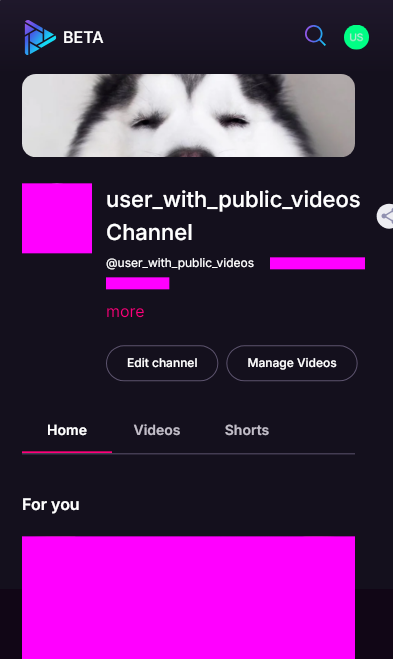
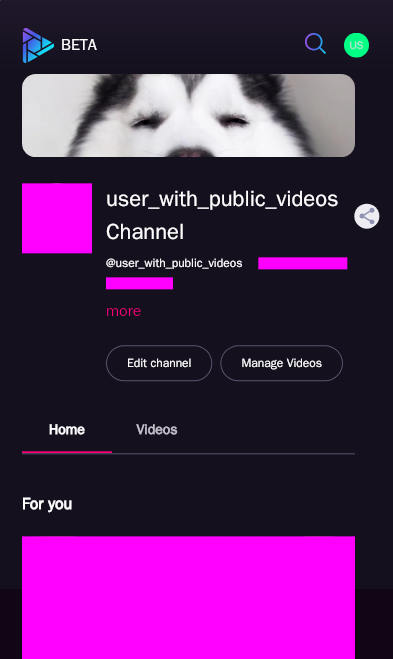
test

diff --git a/tests/visualSuite/desktop/studioVisualSuites.spec.ts b/tests/visualSuite/desktop/studioVisualSuites.spec.ts
@@ -25,32 +25,42 @@ test.describe('Studio SideBar visual tests', () => {
     });
 
     test('Studio SideBar menu for logged in user', async ({ page }) => {
-        await loginOnMainDomain(page);
-
-        await page.goto('/dashboard', { waitUntil: 'domcontentloaded' });
-        await expect(page.locator('.sidebarNav')).toBeVisible();
-        await page.evaluate(async () => {
-            await document.fonts.ready;
+        await test.step('Login on main domain', async () => {
+            await loginOnMainDomain(page);
         });
-        await expect(page.locator('.sidebarNav')).toHaveScreenshot({ maxDiffPixelRatio: 0.02 });
+
+        await test.step('Navigate to studio dashboard and verify sidebar screenshot', async () => {
+            await page.goto('/dashboard');
+            await page.waitForLoadState('networkidle');
+            await expect(page.locator('.sidebarNav')).toBeVisible();
+            await page.evaluate(async () => {
+                await document.fonts.ready;
+            });
+            await expect(page.locator('.sidebarNav')).toHaveScreenshot({ maxDiffPixelRatio: 0.02 });
+        });
     });
 });
 
 test.describe('Studio Header visual tests', () => {
 
     test('Studio Header panel for logged in user', async ({ page }) => {
-        await loginOnMainDomain(page);
-
-        await page.goto('/dashboard', { waitUntil: 'domcontentloaded' });
-        await expect(page.locator('[data-id="header"]')).toBeVisible();
-        await page.evaluate(async () => {
-            await document.fonts.ready;
+        await test.step('Login on main domain', async () => {
+            await loginOnMainDomain(page);
         });
-        await expect(page.locator('[data-id="header"]')).toHaveScreenshot({
-            mask: [
-                page.locator('#profile-button').first()
-            ],
-            maxDiffPixelRatio: 0.02
+
+        await test.step('Navigate to studio dashboard and verify header screenshot', async () => {
+            await page.goto('/dashboard');
+            await page.waitForLoadState('networkidle');
+            await expect(page.locator('[data-id="header"]')).toBeVisible();
+            await page.evaluate(async () => {
+                await document.fonts.ready;
+            });
+            await expect(page.locator('[data-id="header"]')).toHaveScreenshot({
+                mask: [
+                    page.locator('#profile-button')
+                ],
+                maxDiffPixelRatio: 0.02
+            });
         });
     });
 });

diff --git a/src/pages/components/SideBarPage.ts b/src/pages/components/SideBarPage.ts
@@ -1,4 +1,5 @@
 import { Page, Locator, expect } from "@playwright/test";
+import { ensureOnStudioDomain } from "../../utils/studioNavigation";
 
 export class SideBarPage {
   readonly page: Page;
@@ -121,58 +122,50 @@ export class SideBarPage {
   // STUDIO ACTIONS
   // =========================
 
-  /** Navigate to studio domain if not already there */
-  private async ensureOnStudioDomain() {
-    const studioUrl = process.env.STUDIO_URL || 'https://studio.web3tv.dev';
-    if (!this.page.url().includes(new URL(studioUrl).hostname)) {
-      await this.page.goto(`${studioUrl}/dashboard`, { waitUntil: 'domcontentloaded' });
-    }
-  }
-
   async clickStudioDashboard() {
-    await this.ensureOnStudioDomain();
+    await ensureOnStudioDomain(this.page);
     await expect(this.studioDashboard).toBeVisible();
     await this.studioDashboard.click();
     await expect(this.page).toHaveURL(/\/dashboard$/);
   }
 
   async clickStudioContent() {
-    await this.ensureOnStudioDomain();
+    await ensureOnStudioDomain(this.page);
     await expect(this.studioContent).toBeVisible();
     await this.studioContent.click();
     await expect(this.page).toHaveURL(/\/content$/);
   }
 
   async clickStudioAnalytics() {
-    await this.ensureOnStudioDomain();
+    await ensureOnStudioDomain(this.page);
     await expect(this.studioAnalytics).toBeVisible();
     await this.studioAnalytics.click();
     await expect(this.page).toHaveURL(/\/stats$/);
   }
 
   async clickStudioSubscriptions() {
-    await this.ensureOnStudioDomain();
+    await ensureOnStudioDomain(this.page);
     await expect(this.studioSubscriptions).toBeVisible();
     await this.studioSubscriptions.click();
     await expect(this.page).toHaveURL(/\/membership$/);
   }
 
   async clickStudioPlaylists() {
-    await this.ensureOnStudioDomain();
+    await ensureOnStudioDomain(this.page);
     await expect(this.studioPlaylists).toBeVisible();
     await this.studioPlaylists.click();
     await expect(this.page).toHaveURL(/\/playlists$/);
   }
 
   async clickStudioEditChannel() {
-    await this.ensureOnStudioDomain();
+    await ensureOnStudioDomain(this.page);
     await expect(this.studioEditChannel).toBeVisible();
     await this.studioEditChannel.click();
     await expect(this.page).toHaveURL(/\/channel$/);
   }
 
   async clickStudioSettings() {
-    await this.ensureOnStudioDomain();
+    await ensureOnStudioDomain(this.page);
     await expect(this.studioSettings).toBeVisible();
     await this.studioSettings.click();
     await expect(this.page).toHaveURL(/\/settings$/);

diff --git a/src/flows/UploadVideoFlow.ts b/src/flows/UploadVideoFlow.ts
@@ -4,6 +4,7 @@ import { UploadVideoPage } from "../pages/components/UploadVideoPage";
 import { SideBarPage } from "../pages/components/SideBarPage";
 import { Page } from '@playwright/test';
 import { StudioContentPage } from "../pages/studio/StudioContentPage";
+import { ensureOnStudioDomain } from "../utils/studioNavigation";
 
 export class UploadVideoFlow {
     private timestamp: string = '';
@@ -17,16 +18,8 @@ export class UploadVideoFlow {
         this.headerPage = new HeaderPage(page);
     }
 
-    /** Navigate to studio domain if not already there */
-    private async ensureOnStudioDomain() {
-        const studioUrl = process.env.STUDIO_URL || 'https://studio.web3tv.dev';
-        if (!this.page.url().includes(new URL(studioUrl).hostname)) {
-            await this.page.goto(`${studioUrl}/studio`, { waitUntil: 'domcontentloaded' });
-        }
-    }
-
     async uploadVideo(pathToFileURL:string,videoName:string){
-        await this.ensureOnStudioDomain();
+        await ensureOnStudioDomain(this.page);
         await this.headerPage.clickAddVideoBtn();
         await this.headerPage.clickNewVideoBtn();
         await expect(this.headerPage.page.getByRole('dialog', { name: 'Upload Video' })).toBeVisible();
@@ -45,7 +38,7 @@ export class UploadVideoFlow {
 
  
     async uploadShort(pathToFileURL:string,videoName:string){
-        await this.ensureOnStudioDomain();
+        await ensureOnStudioDomain(this.page);
         await this.headerPage.clickAddVideoBtn();
         await this.headerPage.clickNewShortBtn();
         await expect(this.headerPage.page.getByRole('dialog', { name: 'Upload Short' })).toBeVisible();

diff --git a/src/utils/studioNavigation.ts b/src/utils/studioNavigation.ts
@@ -1,0 +1,9 @@
+import { Page } from '@playwright/test';
+
+/** Navigate to studio domain if not already there */
+export async function ensureOnStudioDomain(page: Page): Promise<void> {
+    const studioUrl = process.env.STUDIO_URL || 'https://studio.web3tv.dev';
+    if (!page.url().includes(new URL(studioUrl).hostname)) {
+        await page.goto(`${studioUrl}/dashboard`, { waitUntil: 'domcontentloaded' });
+    }
+}